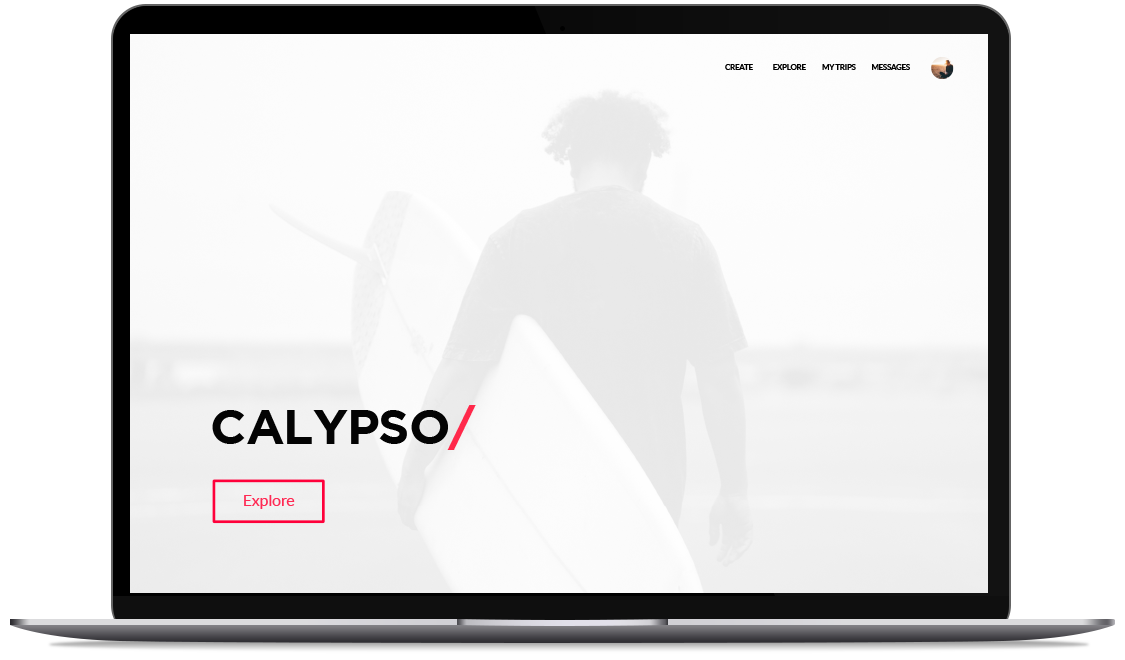
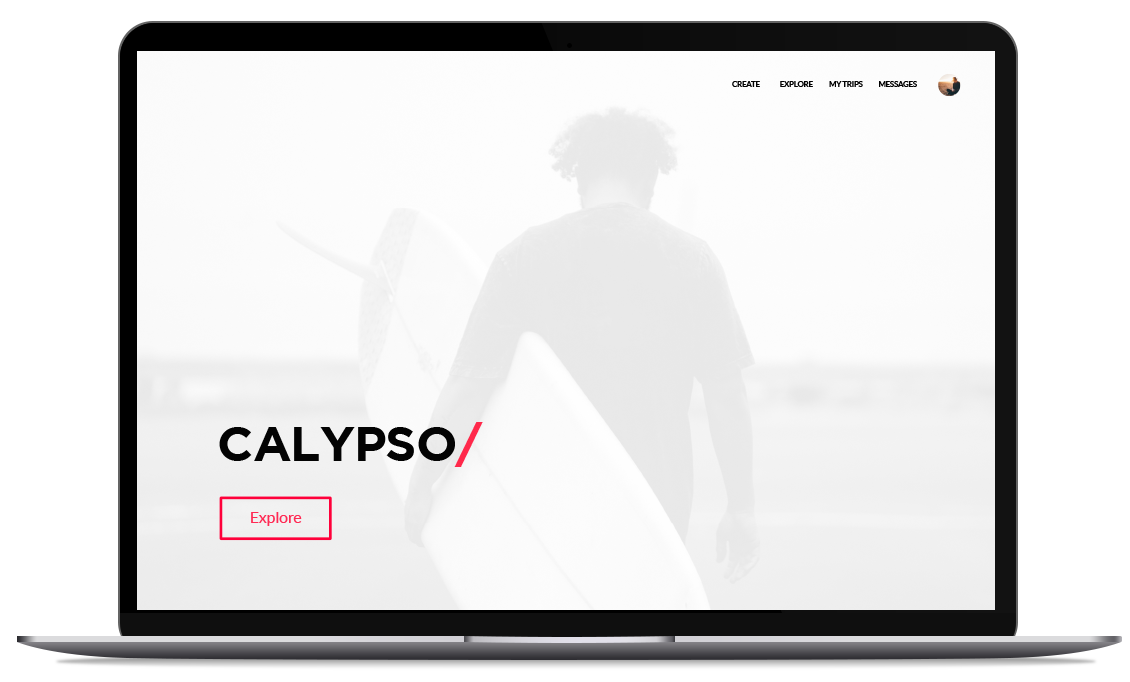
update pictures

Changed region(s): [[0.0, 0.0, 0.9956, 1.0], [0.1867, 0.6061, 0.4356, 0.697], [0.1867, 0.7273, 0.3111, 0.8182]]

diff --git a/app/assets/stylesheets/pages/_calypso.scss b/app/assets/stylesheets/pages/_calypso.scss
@@ -34,10 +34,10 @@
   align-items: center;
   justify-content: center;
   margin-top: 30px;
-  margin-bottom: 150px;
+  margin-bottom: 120px;
   img {
     width: 80%;
-    max-width: 900px;
+    max-width: 1000px;
   }
 }
 
